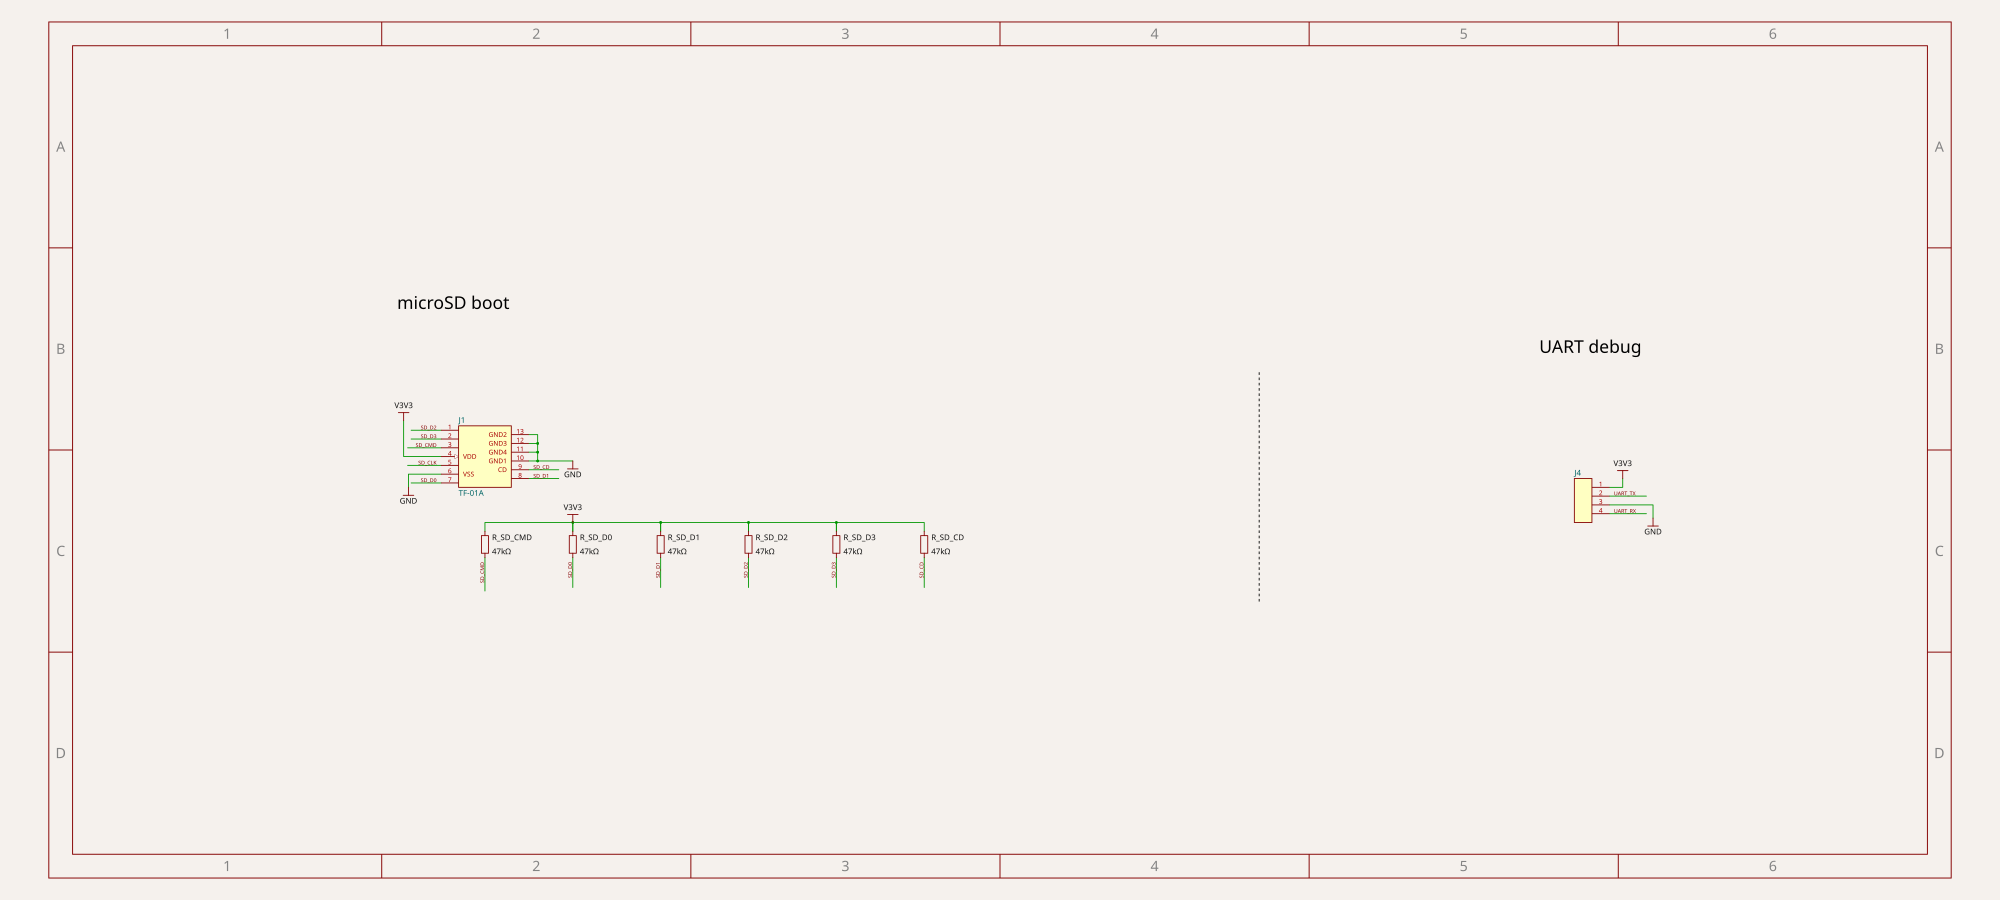
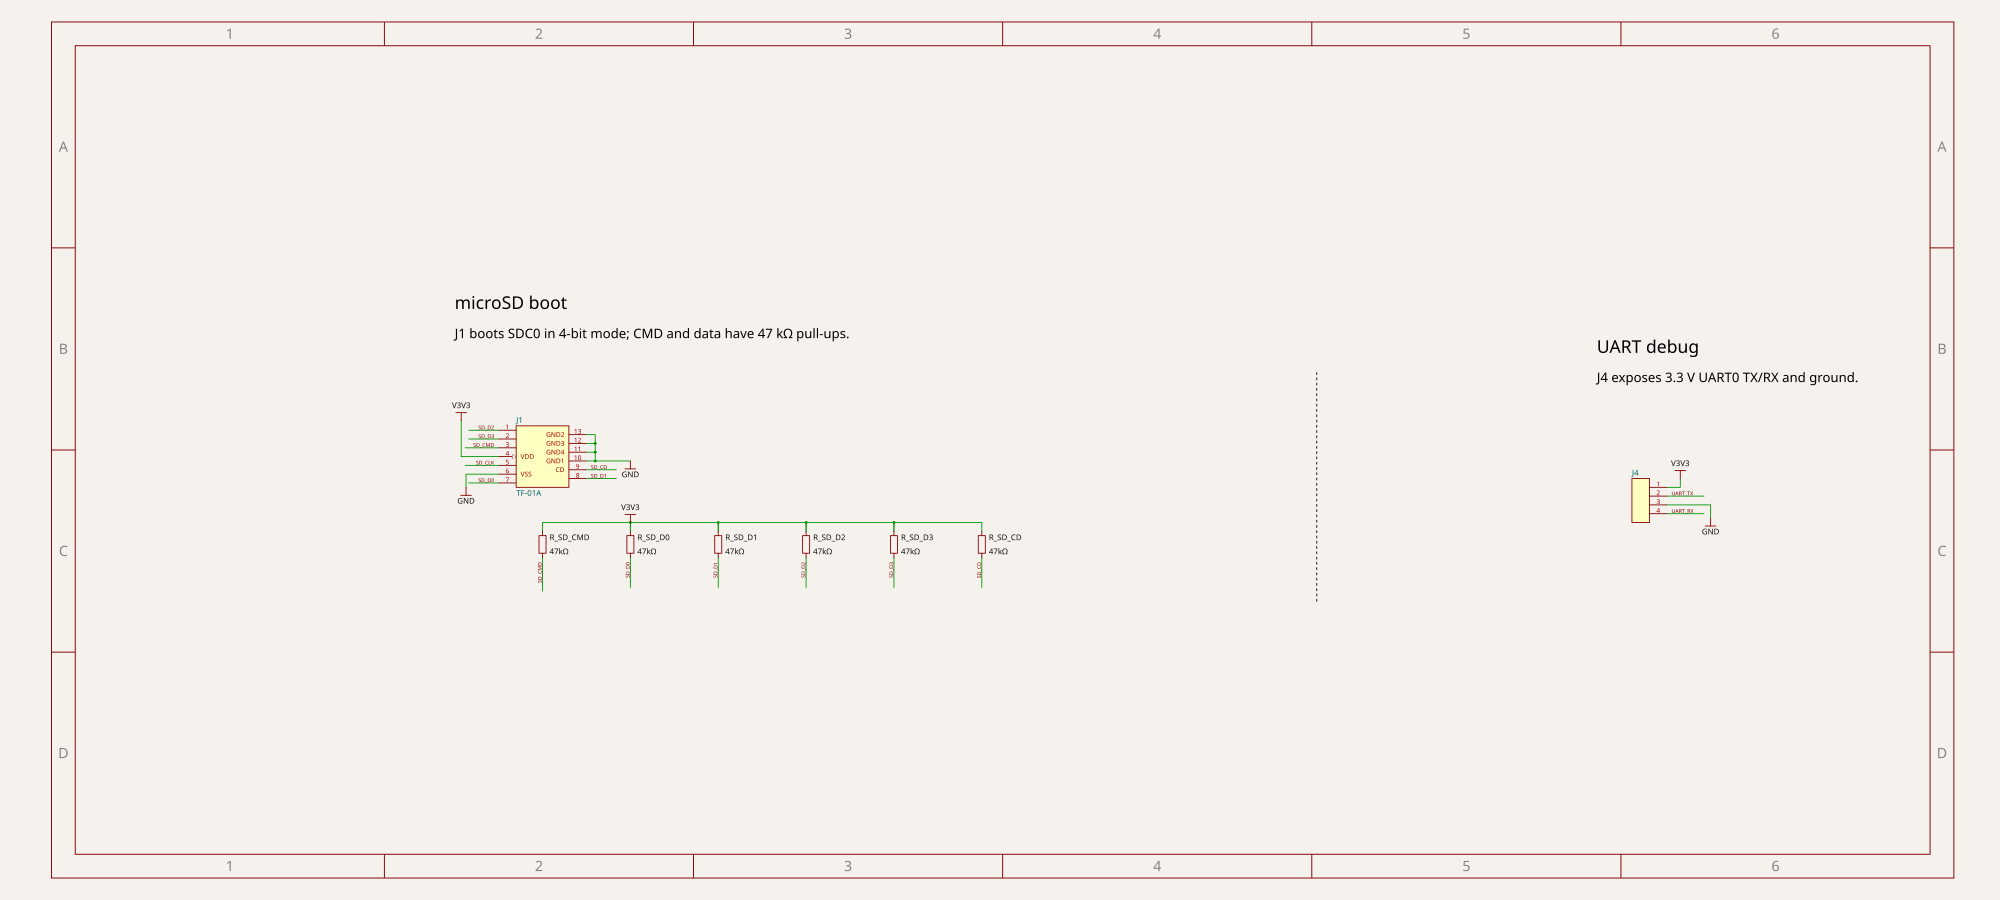
Document schematic sheets and produce compact PCB output

diff --git a/index.circuit.tsx b/index.circuit.tsx
@@ -217,17 +217,21 @@ export default function MinimalV3sEthernet({ routingDisabled = false }: { routin
         <schematicsection name="input" />
         <schematicsection name="pmic" />
         <schematictext text="USB-C input and 3.3 V regulator" schX={-35} schY={23} fontSize={0.4} anchor="left" />
+        <schematictext text="USB1 is a 5 V sink; CC1 and CC2 each have a 5.1 kΩ pull-down." schX={-35} schY={22.2} fontSize={0.3} anchor="left" />
         <schematictext text="PMIC and sequenced rails" schX={-33} schY={-4} fontSize={0.4} anchor="left" />
         <schematictext text="U2 - AXP203 power manager" schX={-29.5} schY={-7} fontSize={0.4} anchor="left" />
-        <schematictext text="5 V input; 1.2 V and 1.8 V rails" schX={-29.5} schY={-7.6} fontSize={0.3} anchor="left" />
+        <schematictext text="5 V in; 1.2 V core, 1.8 V DRAM, 3.0 V analog and 3.3 V RTC rails." schX={-29.5} schY={-7.6} fontSize={0.3} anchor="left" />
         <schematictext text="U3 - AP61100 buck regulator" schX={-29.5} schY={16.3} fontSize={0.4} anchor="left" />
-        <schematictext text="5 V input; 3.3 V output" schX={-29.5} schY={15.7} fontSize={0.3} anchor="left" />
+        <schematictext text="5 V to 3.3 V for I/O, microSD and Ethernet LEDs." schX={-29.5} schY={15.7} fontSize={0.3} anchor="left" />
+        <schematictext text="SW_PWR pulls PWRON low through R_PWRON to start the PMIC." schX={-34} schY={-24.5} fontSize={0.3} anchor="left" />
       </schematicsheet>
       <schematicsheet name="V3s" displayName="V3s and clocks" sheetIndex={1} sheetWidth="400mm" sheetHeight="420mm">
         <schematicsection name="cpu" />
-        <schematictext text="V3s, clocks and decoupling" schX={-11} schY={20.5} fontSize={0.4} anchor="left" />
-        <schematictext text="U1 - Allwinner V3s SoC" schX={-7} schY={6.8} fontSize={0.4} anchor="left" />
-        <schematictext text="1.2 V core, 1.8 V DRAM, 3.3 V I/O; 10/100 Ethernet" schX={-7} schY={6.2} fontSize={0.3} anchor="left" />
+        <schematictext text="V3s, clocks and decoupling" schX={-11} schY={23.5} fontSize={0.4} anchor="left" />
+        <schematictext text="U1 - Allwinner V3s SoC" schX={-11} schY={22.8} fontSize={0.4} anchor="left" />
+        <schematictext text="1.2 V core, 1.8 V DRAM and 3.3 V I/O; integrated DDR2." schX={-11} schY={22.2} fontSize={0.3} anchor="left" />
+        <schematictext text="Boots from microSD; USB device/FEL and 10/100 Ethernet PHY." schX={-11} schY={21.7} fontSize={0.3} anchor="left" />
+        <schematictext text="Y1 provides the 24 MHz main clock with 12 pF load capacitance." schX={7} schY={9.8} fontSize={0.3} anchor="left" />
         <schematictext text="Y2 - 32.768 kHz RTC crystal" schX={10.5} schY={18.1} fontSize={0.4} anchor="left" />
       </schematicsheet>
       <schematicsheet name="Ethernet" displayName="10/100 Ethernet" sheetIndex={2} sheetWidth="260mm" sheetHeight="300mm">
@@ -235,12 +239,15 @@ export default function MinimalV3sEthernet({ routingDisabled = false }: { routin
         <schematictext text="10/100 Ethernet with RJ45 magnetics" schX={20} schY={19} fontSize={0.4} anchor="left" />
         <schematictext text="J2 - RJ45 with integrated magnetics" schX={25} schY={8.5} fontSize={0.4} anchor="left" />
         <schematictext text="10/100BASE-T; 3.3 V LED supply" schX={25} schY={7.9} fontSize={0.3} anchor="left" />
+        <schematictext text="51 Ω EPHY series resistors; 6.04 kΩ RTX bias; filtered 3.3 V center taps." schX={18} schY={-3.2} fontSize={0.3} anchor="left" />
       </schematicsheet>
       <schematicsheet name="Boot and UART" displayName="Boot and UART" sheetIndex={3} sheetWidth="400mm" sheetHeight="180mm">
         <schematicsection name="boot" />
         <schematicsection name="uart" />
         <schematictext text="microSD boot" schX={-2} schY={-23.5} fontSize={0.4} anchor="left" />
+        <schematictext text="J1 boots SDC0 in 4-bit mode; CMD and data have 47 kΩ pull-ups." schX={-2} schY={-24.2} fontSize={0.3} anchor="left" />
         <schematictext text="UART debug" schX={24} schY={-24.5} fontSize={0.4} anchor="left" />
+        <schematictext text="J4 exposes 3.3 V UART0 TX/RX and ground." schX={24} schY={-25.2} fontSize={0.3} anchor="left" />
       </schematicsheet>
 
       <V3s name="U1" pcbX={0} pcbY={0} schX={0} schY={0} schSectionName="cpu" schSheetName="V3s" />

diff --git a/scripts/compact-board.ts b/scripts/compact-board.ts
@@ -1,0 +1,38 @@
+import { mkdir, readFile, writeFile } from "node:fs/promises"
+
+const input = "dist/index/circuit.json"
+const output = "dist/compact/circuit.json"
+const circuit = JSON.parse(await readFile(input, "utf8")) as any[]
+
+const board = circuit.find((item) => item.type === "pcb_board")
+if (!board || board.width !== 80 || board.height !== 70 || board.center.x !== 0 || board.center.y !== 0) {
+  throw new Error("Expected the routed 80 × 70 mm board centered at the origin")
+}
+
+const pour = circuit.find((item) => item.type === "pcb_copper_pour" && item.layer === "inner1")
+if (!pour || pour.shape !== "brep") throw new Error("Expected the inner-layer ground pour")
+
+const rightEdge = 36
+const pourEdge = rightEdge - 0.25
+if (pour.brep_shape.inner_rings.some((ring: any) => ring.vertices.some((vertex: any) => vertex.x >= pourEdge))) {
+  throw new Error("A copper-pour opening reaches the proposed right edge")
+}
+
+for (const item of circuit) {
+  if (item.type === "pcb_trace" && item.route.some((point: any) => point.x > rightEdge - 0.2)) {
+    throw new Error(`Trace ${item.pcb_trace_id} reaches the proposed right edge`)
+  }
+  if (item.type === "pcb_courtyard_outline" && item.outline.some((point: any) => point.x > rightEdge)) {
+    throw new Error(`Courtyard ${item.pcb_courtyard_outline_id} crosses the proposed right edge`)
+  }
+}
+
+board.center.x = -2
+board.width = 76
+for (const vertex of pour.brep_shape.outer_ring.vertices) {
+  if (vertex.x > 0) vertex.x = pourEdge
+}
+
+await mkdir("dist/compact", { recursive: true })
+await writeFile(output, JSON.stringify(circuit))
+console.log(`Wrote compact 76 × 70 mm PCB to ${output}`)

diff --git a/README.md b/README.md
@@ -26,11 +26,11 @@ bun install
 bun run build
 ```
 
-The default build routes the four-layer 80 × 70 mm board. The completed build connects all 56 nets, passes its PCB design-rule checks, and reports no shorts from `tsci check shorts dist/index/circuit.json`. Electrical netlist, schematic placement, and PCB placement checks also pass. Routing fixes include direct top-layer 24 MHz crystal traces, a short LX2 switch trace beside the PMIC, and controlled SD, LX3, and USB_DM escapes.
+The default build routes all 56 nets on an 80 × 70 mm canvas, then trims an unused 4 mm strip from the right edge. The final four-layer PCB is **76 × 70 mm** in `dist/compact/circuit.json`; the source preview shows the larger routing canvas. The trim also updates the inner-layer ground pour and checks that no trace or component courtyard crosses the new edge. Check the final board with `bunx tsci check shorts dist/compact/circuit.json` and `bunx tsci check placement dist/compact/circuit.json`. Routing fixes include direct top-layer 24 MHz crystal traces, a short LX2 switch trace beside the PMIC, and controlled SD, LX3, and USB_DM escapes.
 
-PCB snapshots from the passing build: [full board](./pcb-routed.png), [Ethernet to RJ45](./pcb-ethernet.png), and [clock, power, SD, and USB nets](./pcb-critical-nets.png). Rebuild with `bun run build`; the autorouter can take several minutes. Run `bunx tsci check shorts dist/index/circuit.json` after any routing change.
+PCB snapshots from the passing compact build: [full board](./pcb-routed.png), [Ethernet to RJ45](./pcb-ethernet.png), and [clock, power, SD, and USB nets](./pcb-critical-nets.png). Rebuild with `bun run build`; the autorouter can take several minutes. Run `bunx tsci check shorts dist/compact/circuit.json` after any routing change.
 
-The schematic uses four sheets: [Power input and PMIC](./schematic-sheets/power.png), [V3s and clocks](./schematic-sheets/v3s.png), [Ethernet and RJ45](./schematic-sheets/ethernet.png), and [microSD boot and UART](./schematic-sheets/boot-uart.png). A [stacked overview](./schematic-review.png) shows all four. Cross-sheet nets use matching labels, while the PCB remains one routed board.
+The schematic uses four sheets: [Power input and PMIC](./schematic-sheets/power.png), [V3s and clocks](./schematic-sheets/v3s.png), [Ethernet and RJ45](./schematic-sheets/ethernet.png), and [microSD boot and UART](./schematic-sheets/boot-uart.png). Each sheet includes short notes explaining its main components, supply rails, or interface signals. A [stacked overview](./schematic-review.png) shows all four. Cross-sheet nets use matching labels, while the PCB remains one routed board.
 
 This is a routed prototype, not a released fabrication package. The part-selection engine reports 0402 supplier footprint discrepancies and cannot resolve the selected 22 pF capacitor's JLCPCB number, so verify or replace those parts before assembly. Also verify the ordered AXP203 variant's startup voltages and timing, USB-C connector orientation and power budget, and Ethernet center-tap/EMC network.
 
